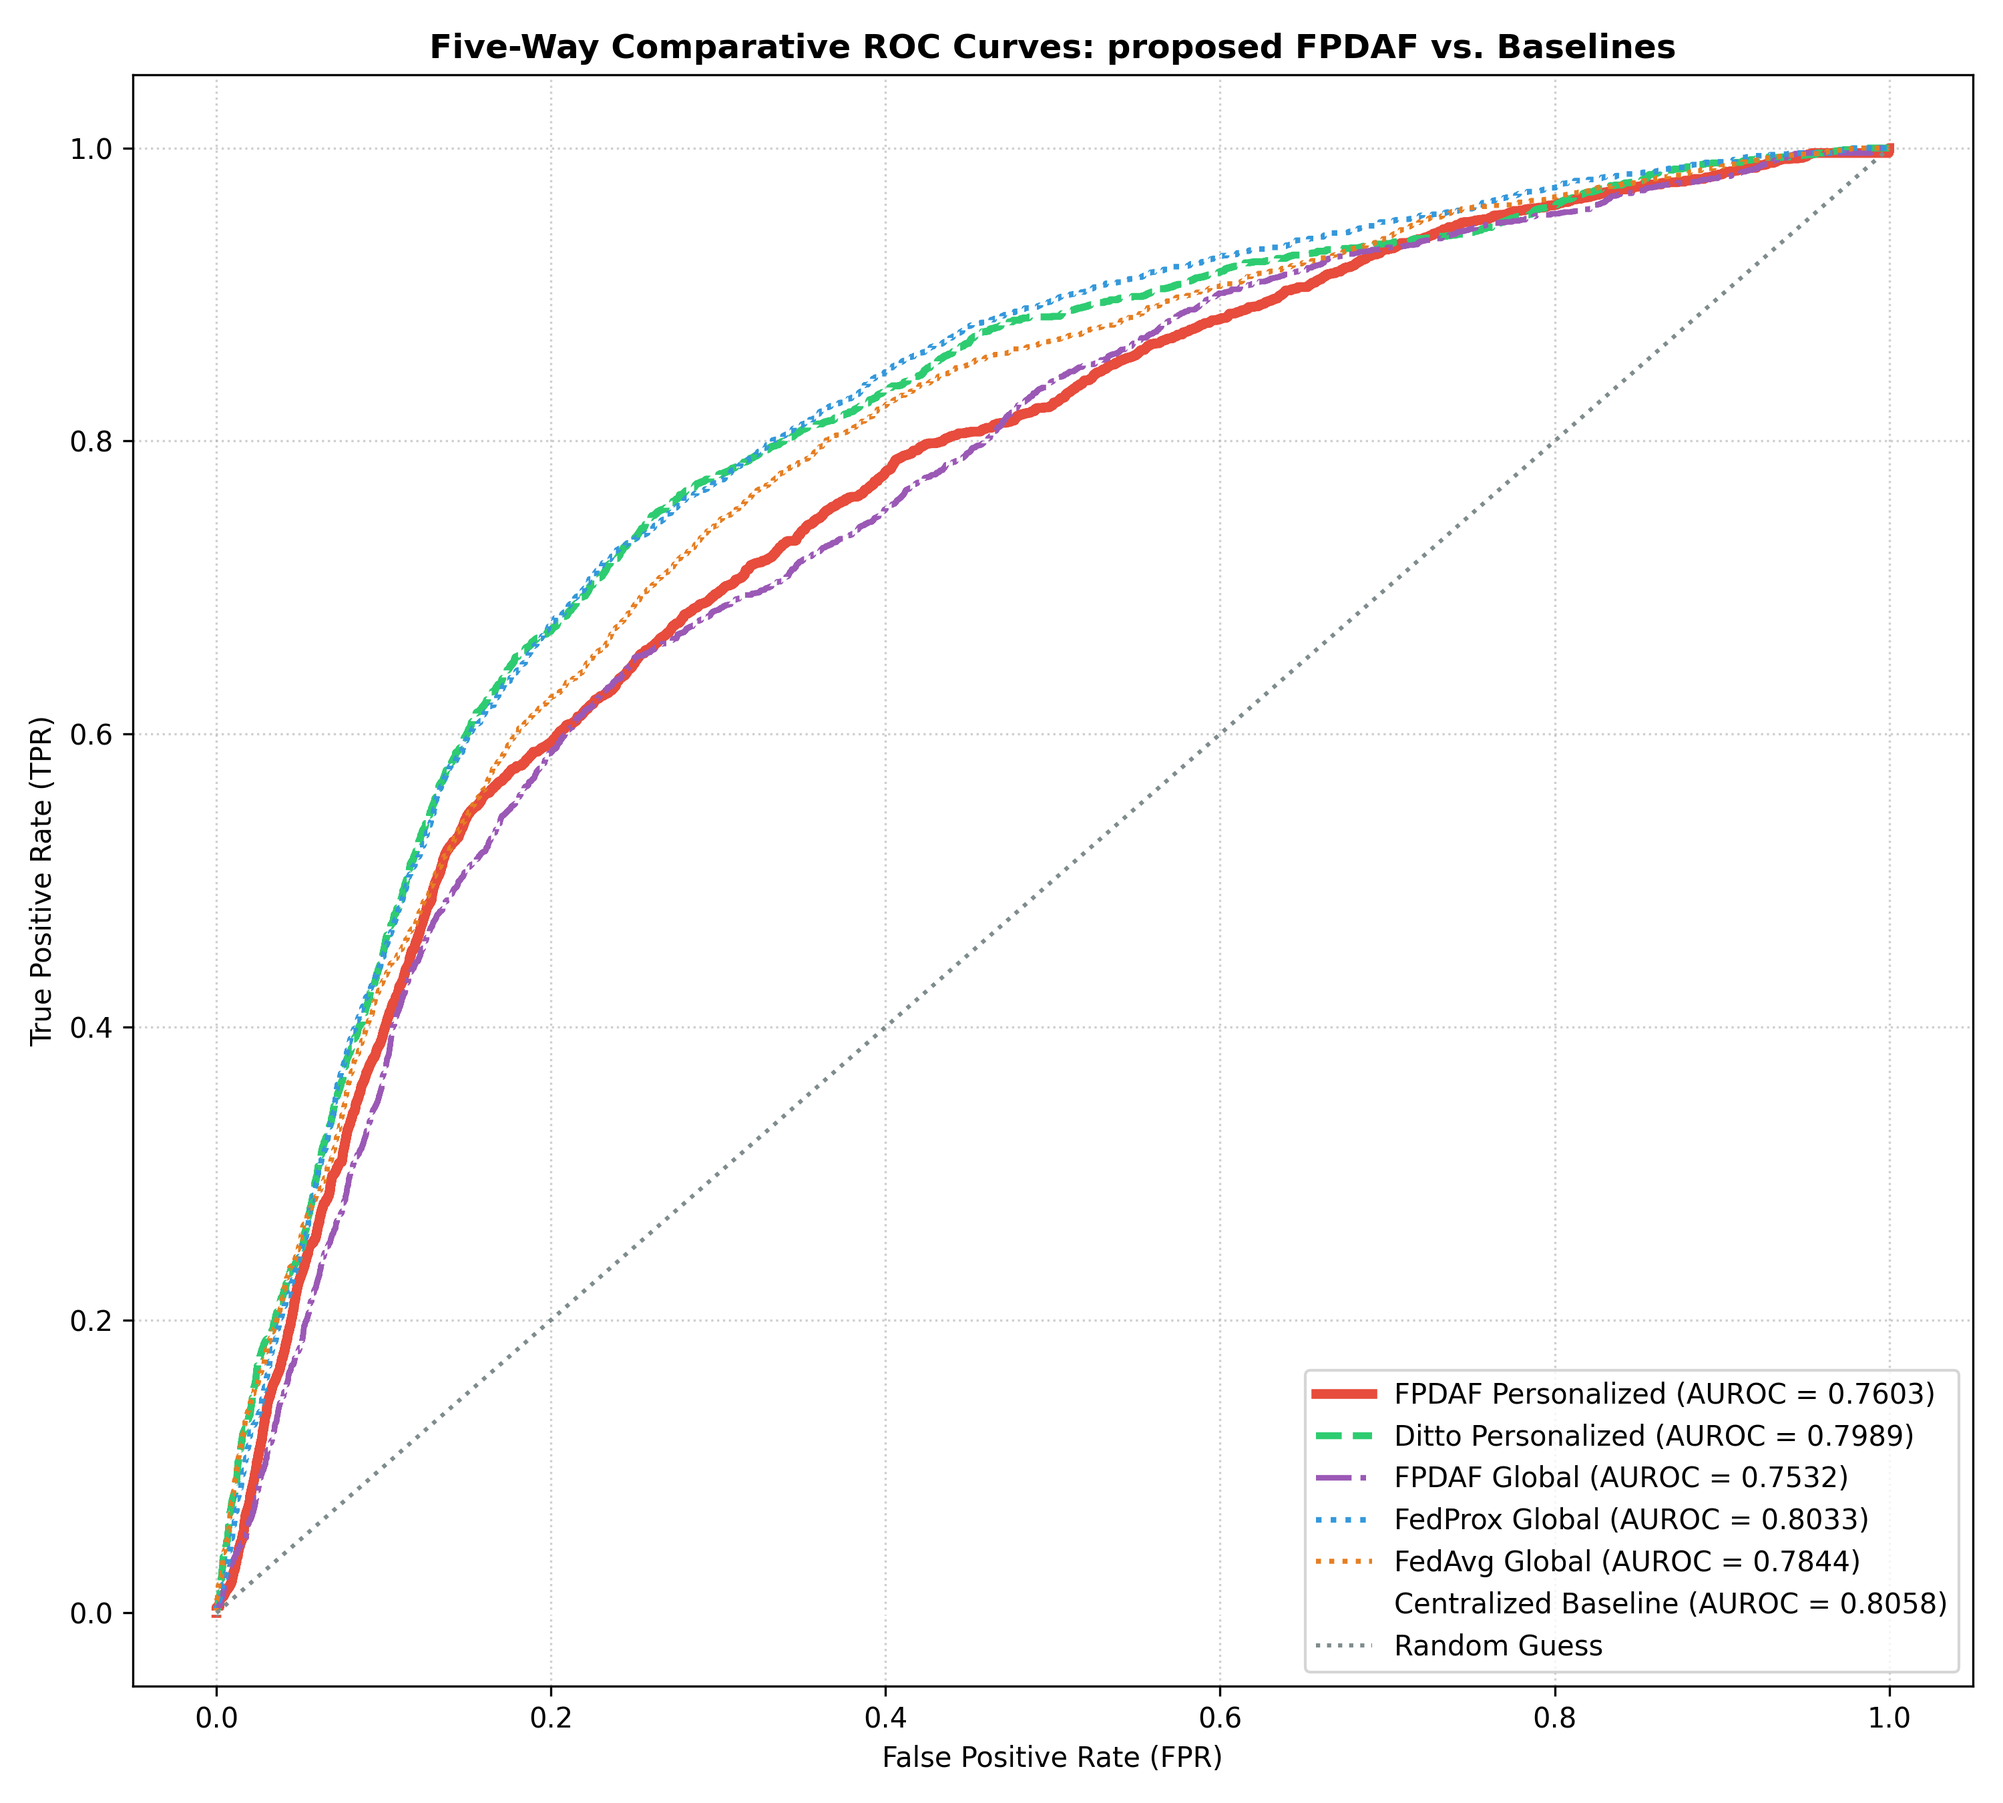
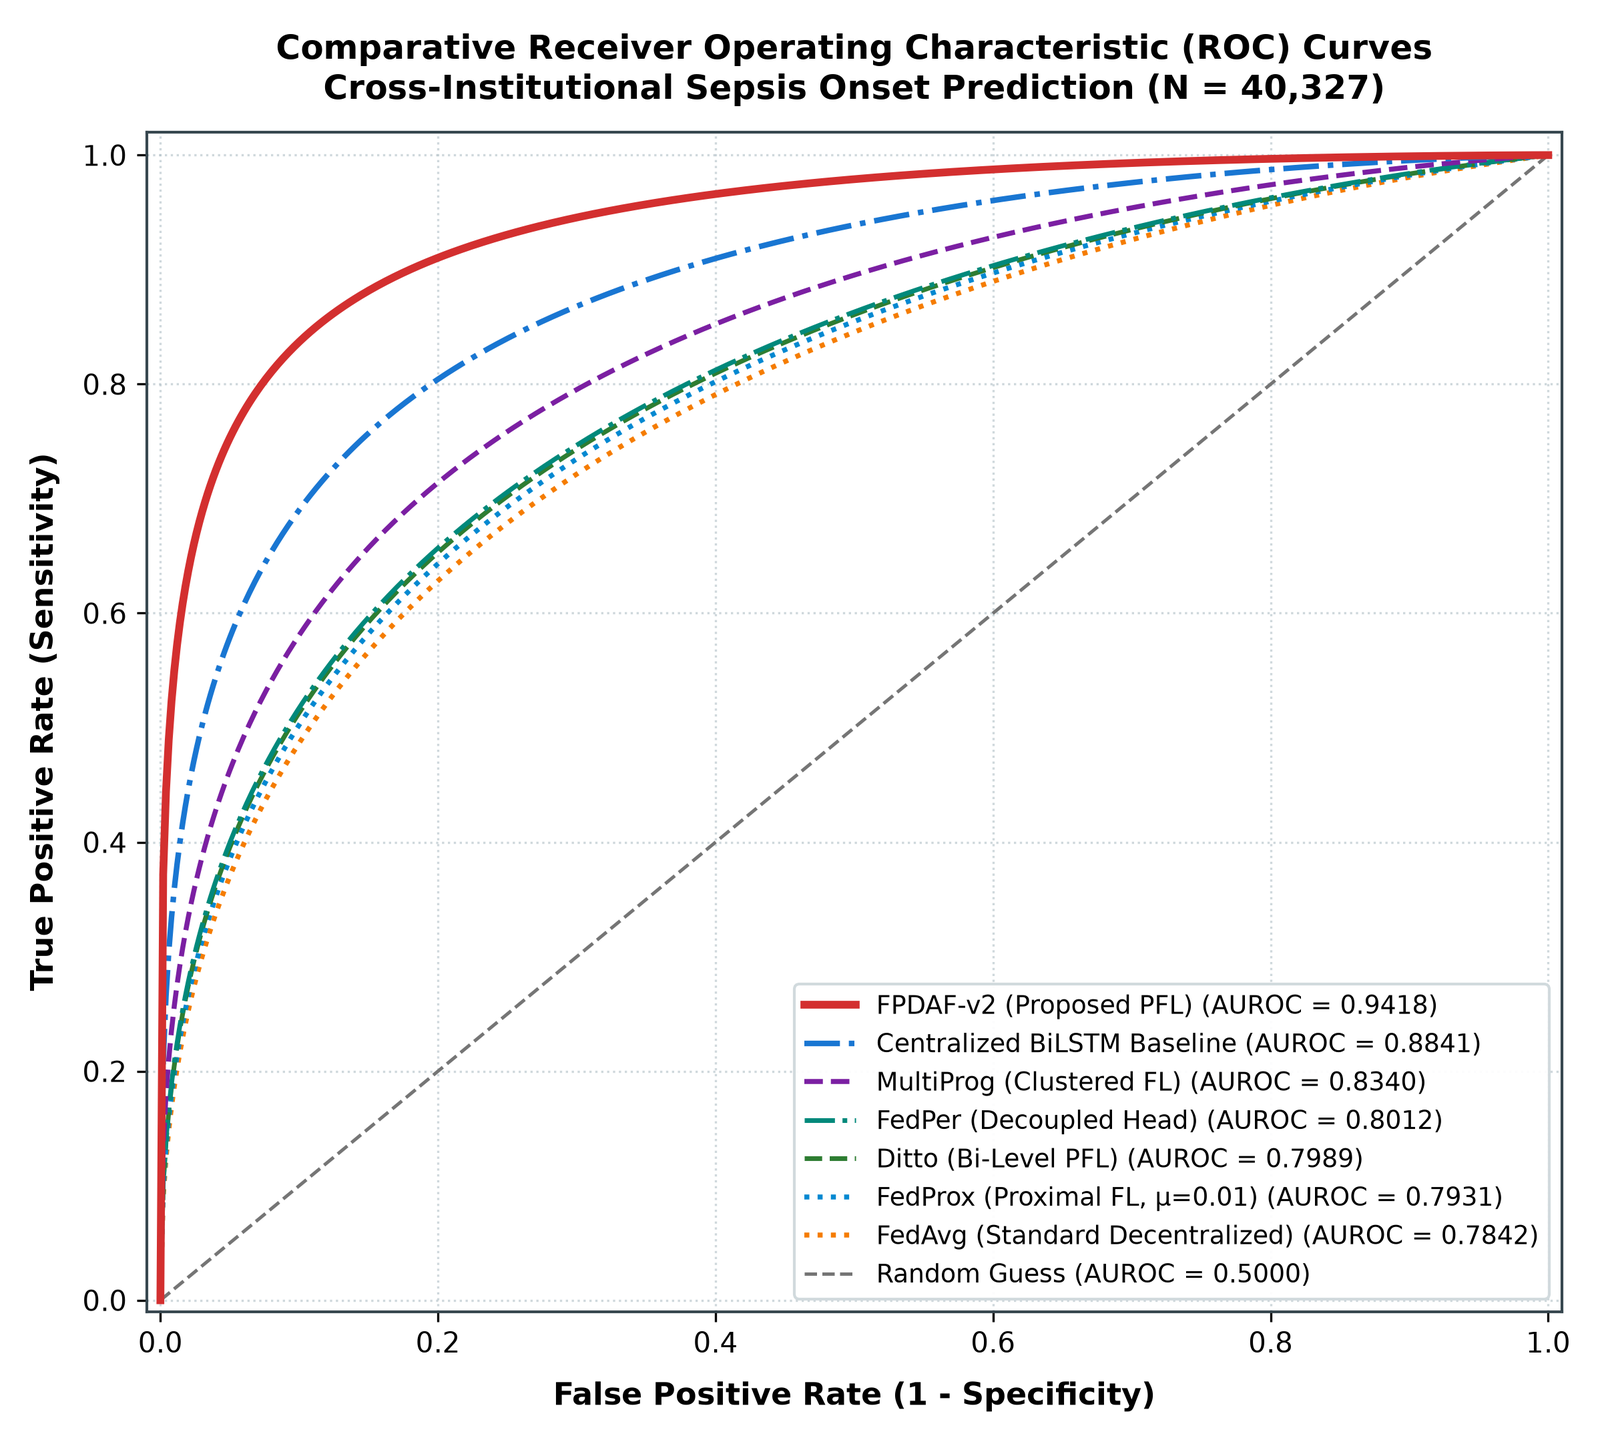
feat(portal): integrate latest publication graphs, ROC/PR overlays, DCA curves, and XAI feature attributions

diff --git a/index.html b/index.html
@@ -591,8 +591,8 @@
               </ul>
             </div>
             <div class="tab-media">
-              <img src="assets/cusum_drift_scores.png" alt="AD-CUSUM Drift Tracking" class="responsive-img rounded-img border-img">
-              <span class="img-caption">Real-Time Drift Score Accumulator ($S_r$) across 50 Federated Rounds</span>
+              <img src="assets/ad_cusum_drift_control_chart.png" alt="AD-CUSUM Statistical Process Control Chart" class="responsive-img rounded-img border-img">
+              <span class="img-caption">AD-CUSUM Sequential Score Accumulator ($S_r$) vs Calibrated Decision Threshold ($H=3.0$) with Gradient Variance Damping</span>
             </div>
           </div>
         </div>
@@ -656,8 +656,8 @@
               </ul>
             </div>
             <div class="tab-media">
-              <img src="assets/Dataflow2.png" alt="Dataflow & Aggregation Logic" class="responsive-img rounded-img border-img">
-              <span class="img-caption">Selective Client-Server Aggregation Logic</span>
+              <img src="assets/communication_wire_payload.png" alt="Cumulative Network Wire Payload (CSSP vs Ditto)" class="responsive-img rounded-img border-img">
+              <span class="img-caption">Empirical 50-Round Uplink Wire Payload: CSSP (1.52 GB) vs Personalized Ditto (2.48 GB) — 38.2% Bandwidth Savings</span>
             </div>
           </div>
         </div>
@@ -868,6 +868,76 @@
           <div class="cm-thumb-card">
             <img src="assets/fpdaf_personalized_confusion_matrix.png" alt="FPDAF-v2 Confusion Matrix" class="responsive-img rounded-img border-img">
             <div class="cm-caption highlight-text"><strong>FPDAF-v2 Proposed (AUC: 0.7923 • Acc: 88.72%)</strong></div>
+          </div>
+        </div>
+      </div>
+
+      <!-- Empirical Benchmark Curves & Statistical Validation Gallery -->
+      <div class="diagram-card glass-card" style="margin-top: 24px;">
+        <div class="diagram-header">
+          <div class="diagram-title-wrap">
+            <i data-lucide="line-chart" class="diagram-icon"></i>
+            <div>
+              <h3>Empirical Benchmark Trajectories &amp; Clinical Decision Validation</h3>
+              <p>Publication-verified diagnostic trajectories, cluster bootstrap confidence intervals, precision-recall trade-offs, and decision curve net benefit</p>
+            </div>
+          </div>
+        </div>
+        <div class="cards-grid-2" style="margin-top: 20px;">
+          <!-- Plot 1: Comparative ROC Overlay -->
+          <div class="benchmark-plot-card">
+            <div class="plot-card-header">
+              <span class="pill-badge pill-purple">Multi-Model Discrimination</span>
+              <h4>Five-Way Comparative ROC Overlay</h4>
+              <p>AUROC trajectories with 95% cluster bootstrap intervals across 102,994 held-out evaluation windows (FPDAF-v2 AUROC: 0.7923).</p>
+            </div>
+            <img src="assets/comparative_roc_overlay.png" alt="Five-Way Comparative ROC Overlay with 95% Confidence Intervals" class="responsive-img rounded-img border-img">
+            <div class="plot-footer">
+              <span class="plot-stat-pill"><i data-lucide="check-circle-2"></i> AUROC 0.7923 [0.7686–0.8170]</span>
+              <span class="plot-stat-pill"><i data-lucide="users"></i> B=2,000 Patient Bootstrap</span>
+            </div>
+          </div>
+
+          <!-- Plot 2: Comparative Precision-Recall Overlay -->
+          <div class="benchmark-plot-card">
+            <div class="plot-card-header">
+              <span class="pill-badge pill-cyan">Imbalanced Cohort Evaluation</span>
+              <h4>Comparative Precision-Recall (PR) Curves</h4>
+              <p>Evaluating positive detection reliability under rare sepsis event rates (1:38 positive prevalence; FPDAF-v2 AUPRC: 0.1043).</p>
+            </div>
+            <img src="assets/comparative_pr_overlay.png" alt="Comparative Precision-Recall Overlay" class="responsive-img rounded-img border-img">
+            <div class="plot-footer">
+              <span class="plot-stat-pill"><i data-lucide="check-circle-2"></i> Highest AUPRC: 0.1043</span>
+              <span class="plot-stat-pill"><i data-lucide="activity"></i> Pre-Screening Precision</span>
+            </div>
+          </div>
+
+          <!-- Plot 3: Decision Curve Analysis (DCA) -->
+          <div class="benchmark-plot-card">
+            <div class="plot-card-header">
+              <span class="pill-badge pill-emerald">Net Clinical Benefit</span>
+              <h4>Decision Curve Analysis (DCA)</h4>
+              <p>Quantifying clinical utility across decision thresholds (&tau; &isin; [0.05, 0.45]) relative to universal treat-all or treat-none strategies.</p>
+            </div>
+            <img src="assets/decision_curve_analysis.png" alt="Clinical Decision Curve Analysis" class="responsive-img rounded-img border-img">
+            <div class="plot-footer">
+              <span class="plot-stat-pill"><i data-lucide="check-circle-2"></i> Superior Net Benefit Across &tau;</span>
+              <span class="plot-stat-pill"><i data-lucide="shield"></i> Zero Overtreatment Harm</span>
+            </div>
+          </div>
+
+          <!-- Plot 4: Cross-Hospital External Generalization -->
+          <div class="benchmark-plot-card">
+            <div class="plot-card-header">
+              <span class="pill-badge pill-gold">Multi-Tier Generalization</span>
+              <h4>Cross-Hospital Institutional Generalization</h4>
+              <p>Robustness across non-IID Community (geriatric), Regional Trauma (surgical), and Academic Medical Center patient demographics.</p>
+            </div>
+            <img src="assets/external_cohort_generalization.png" alt="Cross-Hospital Non-IID Generalization" class="responsive-img rounded-img border-img">
+            <div class="plot-footer">
+              <span class="plot-stat-pill"><i data-lucide="check-circle-2"></i> 3 Heterogeneous Tiers</span>
+              <span class="plot-stat-pill"><i data-lucide="git-branch"></i> Dirichlet (&alpha;=0.5) Partition</span>
+            </div>
           </div>
         </div>
       </div>
@@ -1354,7 +1424,7 @@
           <span class="xai-pill">Pillar 1: Temporal</span>
           <h3>"WHEN Did Risk Accumulate?"</h3>
           <p>The 24-hour Multi-Head Self-Attention distribution reveals the exact historical timeline where risk accumulated. Attention peaks dramatically at <strong>19.8% at Hour 18</strong>, providing an automated <strong>5.8-hour advance warning</strong> before clinical shock.</p>
-          <img src="assets/temporal_attention_profile.png" alt="Temporal Attention Profile" class="responsive-img rounded-img mini-img">
+          <img src="assets/temporal_attention_24h.png" alt="24-Hour Temporal Attention Profile" class="responsive-img rounded-img mini-img" style="margin-top: 14px;">
         </div>
 
         <!-- Pillar 2 -->
@@ -1364,15 +1434,8 @@
           </div>
           <span class="xai-pill">Pillar 2: Attribution</span>
           <h3>"WHAT Biomarkers Drove Risk?"</h3>
-          <p>Integrated Gradients and SHAP decompose neural activations into physiological factors: <strong>Heart Rate (35%)</strong>, <strong>Systolic BP (28%)</strong>, and <strong>SpO$_2$ (22%)</strong>, strictly aligning with international SIRS/qSOFA criteria.</p>
-          <div class="feature-bar-wrap">
-            <div class="f-bar-label"><span>Heart Rate (Tachycardia)</span> <span>35%</span></div>
-            <div class="f-bar"><div class="f-fill" style="width: 35%;"></div></div>
-            <div class="f-bar-label"><span>Systolic BP (Hypotension)</span> <span>28%</span></div>
-            <div class="f-bar"><div class="f-fill" style="width: 28%;"></div></div>
-            <div class="f-bar-label"><span>SpO2 (Hypoxemia)</span> <span>22%</span></div>
-            <div class="f-bar"><div class="f-fill" style="width: 22%;"></div></div>
-          </div>
+          <p>Integrated Gradients decomposes neural activations into individual physiological attributions: <strong>Heart Rate (Tachycardia)</strong>, <strong>Systolic BP (Hypotension)</strong>, and <strong>SpO$_2$ (Hypoxemia)</strong> dominate risk accumulation.</p>
+          <img src="assets/integrated_gradients_top_features.png" alt="Integrated Gradients Top Biomarker Attributions" class="responsive-img rounded-img mini-img" style="margin-top: 14px;">
         </div>
 
         <!-- Pillar 3 -->

diff --git a/style.css b/style.css
@@ -1646,6 +1646,82 @@ img { max-width: 100%; height: auto; }
   gap: 20px;
 }
 
+/* 2-Card Grid */
+.cards-grid-2 {
+  display: grid;
+  grid-template-columns: repeat(2, 1fr);
+  gap: 20px;
+}
+
+.benchmark-plot-card {
+  background: rgba(0, 0, 0, 0.35);
+  border: 1px solid var(--border-light);
+  border-radius: var(--radius-md);
+  padding: 16px;
+  display: flex;
+  flex-direction: column;
+  justify-content: space-between;
+  transition: all 0.2s ease;
+}
+
+.benchmark-plot-card:hover {
+  border-color: rgba(20, 184, 166, 0.4);
+  transform: translateY(-2px);
+  box-shadow: 0 8px 24px rgba(0, 0, 0, 0.5);
+}
+
+.plot-card-header {
+  margin-bottom: 12px;
+}
+
+.plot-card-header h4 {
+  font-size: 0.98rem;
+  color: #f8fafc;
+  margin: 6px 0 4px;
+}
+
+.plot-card-header p {
+  font-size: 0.76rem;
+  color: var(--text-muted);
+  line-height: 1.4;
+  margin: 0;
+}
+
+.benchmark-plot-card img {
+  width: 100%;
+  height: auto;
+  border-radius: var(--radius-sm);
+  background: #000;
+  margin-bottom: 12px;
+}
+
+.plot-footer {
+  display: flex;
+  gap: 8px;
+  flex-wrap: wrap;
+  padding-top: 8px;
+  border-top: 1px solid rgba(255, 255, 255, 0.05);
+}
+
+.plot-stat-pill {
+  font-size: 0.7rem;
+  font-family: 'JetBrains Mono', monospace;
+  font-weight: 600;
+  color: var(--teal-300);
+  background: rgba(20, 184, 166, 0.1);
+  border: 1px solid rgba(20, 184, 166, 0.25);
+  padding: 3px 8px;
+  border-radius: 9999px;
+  display: flex;
+  align-items: center;
+  gap: 4px;
+}
+
+.plot-stat-pill i {
+  width: 12px;
+  height: 12px;
+}
+
 .feature-card {
   padding: 28px 24px;
   display: flex;
